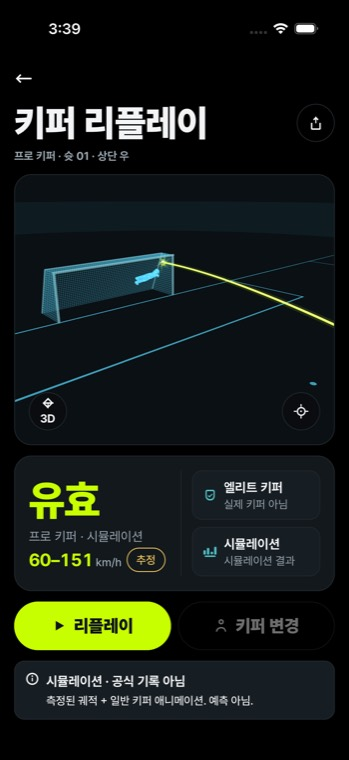
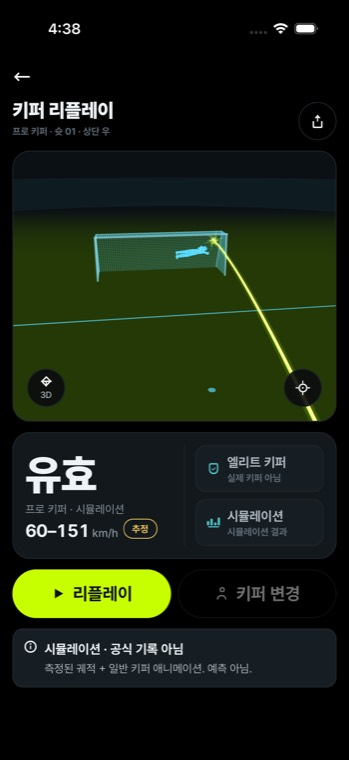
docs(stryke): hierarchy-pass captures — one focal per screen, five text tiers, brand in header
The pass translated the TBG production app's measured hierarchy mechanics
(16pt focal cliff at 2.9x body, seven-tier dimming carrying more de-emphasis
than size) into the STRYKE kit: every screen now names one focal element at
44pt white, lime was pulled off every value it was standing on, labels dropped
to 11pt muted caps, and the new wordmark sits in the discover header.

Known defect carried forward: the discover drill card's insight body renders
in English on a Korean-first screen.

diff --git a/stryke/design.html b/stryke/design.html
@@ -57,7 +57,7 @@ footer{margin-top:60px;padding-top:18px;border-top:1px solid var(--line);color:v
 <p class="eyebrow">STRYKE · design targets vs the build</p>
 <h1>The <em>Design</em></h1>
 <p class="lede">The eight screens we are building toward, each next to what the app actually renders today. The gap is the point of the page — this is a working document, not a portfolio.</p>
-<p class="lede" style="font-size:13.5px;margin-top:14px">Build screenshots refreshed <b>1 Sep 2026, 03:35&ndash;03:53</b> — after the clean-capture rescore (true average 49/100), a simulator-verified fix round, the static shot-map scene, and the leaderboard going live against the seeded API. Scores shown are the last adversarial ratings; captures are newer than the scores, so treat scores as a floor.</p>
+<p class="lede" style="font-size:13.5px;margin-top:14px">Build screenshots refreshed <b>1 Sep 2026, 04:41</b> — after the HIERARCHY PASS: five text tiers instead of two, one 44pt white focal number per screen (lime pulled off every value and left only where it means verified/active), labels dropped to 11pt muted caps, one gutter, and the new brand lockup in the header. Mechanics translated from a token-level audit of the TBG production app (focal:body 2.9&times;, dimming over sizing). Scores shown predate this pass — treat them as a floor.</p>
 <div style="background:var(--panel);border:1px solid var(--line);border-radius:14px;padding:10px 14px;margin:14px 0"><img src="design/logo-lockup.jpg" alt="STRYKE lockup" style="display:block;width:100%;max-width:560px;height:auto;margin:0 auto"><p style="text-align:center;color:var(--mut);font-size:12px;margin:6px 0 2px">New brand lockup &mdash; the kit&rsquo;s ballistic trail and impact star promoted to the mark, set in Pretendard Black</p></div>
 
 <h2><span class="n">01</span>The colour system</h2>
